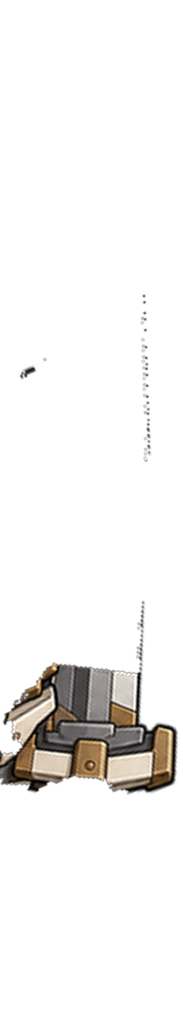
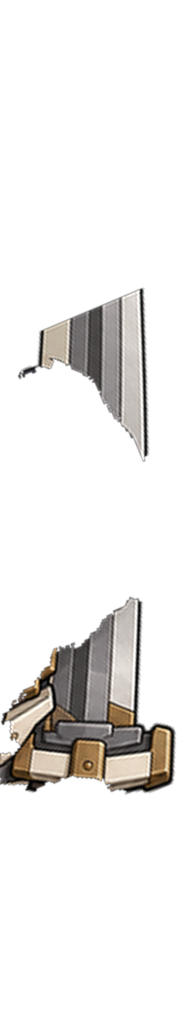
29 스카이 팔로메 v1.5: 공격 때 칼 깨짐 — 칼날 한 덩어리 + 시트 날밑 덮기
- 원화 머리 오른쪽 칼날이 왼쪽보다 6.5~11px 아래로 어긋나 그려져 있어, 세 조각(이어 붙인 단면·원화 조각·시트 칼 뿌리)이 만나 휘두를 때 계단·금
- 칼날 = 머리 왼쪽 단면 하나를 날밑까지 이은 한 덩어리, 윗날만 머리 뒤에서 완만히(최대 4°) 휘어 날밑 쪽 원화 윗날 안쪽으로
- 시트 날밑을 자기 알파로 칼날 위에 덮고 둘레 고리 원화 부스러기 지움
- 대기 = 원화(guardArt), 차이 2.42 · 편집 툴 v127 · 게임 미연결(DHL 확인 뒤)

Claude-Session: https://claude.ai/code/session_011WxNHak8EsK79yqEoeePC7

Changed region(s): [[0.0, 0.5786, 0.8791, 0.7917], [0.1099, 0.2741, 0.8242, 0.4568], [0.9066, 0.7004, 0.989, 0.7917]]

diff --git a/assets/rig/palome-sky/rig.def.js b/assets/rig/palome-sky/rig.def.js
@@ -1,3 +1,3 @@
 // 자동 생성: rig.json을 JS로 감싼 것. 원본은 같은 폴더의 rig.json (source/build_sky29.py)
 window.MR_RIG_DEFS=window.MR_RIG_DEFS||{};
-window.MR_RIG_DEFS['palome-sky']={"name": "palome-sky", "version": "7a6a50bd", "units": "rig px (원화 512 ×2)", "refOrigin": [526.0, 956.0], "refScale": 1.0, "refLift": 0, "parts": {"torso": {"src": "parts/torso.png", "pivot": [140.0, 239.0], "scale": 2.0}, "skirt": {"src": "parts/skirt.png", "pivot": [140.0, 41.0], "scale": 2.0, "mesh": {"cols": 8, "rows": 6}}, "head": {"src": "parts/head.png", "pivot": [102.0, 138.0], "scale": 2.0}, "pauldron": {"src": "parts/pauldron.png", "pivot": [93.0, 89.0], "scale": 2.0}, "armU": {"src": "parts/armU.png", "pivot": [82.0, 19.0], "scale": 2.0, "elbow": [20.0, 80.0]}, "armL": {"src": "parts/armL.png", "pivot": [19.0, 27.0], "scale": 2.0, "fist": [105.4, 61.8]}, "armF": {"src": "parts/armF.png", "pivot": [28.0, 32.0], "scale": 2.0, "elbow": [90.0, 82.0]}, "foreF": {"src": "parts/foreF.png", "pivot": [50.0, 78.0], "scale": 2.0}, "fistF": {"src": "parts/fistF.png", "pivot": [36.0, 61.0], "scale": 2.0}, "pauldronF": {"src": "parts/pauldronF.png", "pivot": [10.0, 27.0], "scale": 2.0}, "seamF": {"src": "parts/seamF.png", "pivot": [-65.0, 167.0], "scale": 2.0}, "cape": {"src": "parts/cape.png", "pivot": [87.0, 27.0], "scale": 2.0, "mesh": {"cols": 6, "rows": 7}}, "guardArt": {"src": "parts/guardArt.png", "pivot": [80.0, 847.0], "scale": 1.0}, "weapon": {"src": "parts/weapon.png", "pivot": [80.0, 847.0], "scale": 1.0, "tip": [90.9, 4.6], "tips": [[78.9, 24.6], [118.9, 24.6]], "guard": [90.6, 755.7], "pommel": [62.4, 997.7]}, "face_happy": {"src": "parts/face_happy.png", "pivot": [102.0, 138.0], "scale": 2.0}, "face_angry": {"src": "parts/face_angry.png", "pivot": [102.0, 138.0], "scale": 2.0}, "face_focus": {"src": "parts/face_focus.png", "pivot": [102.0, 138.0], "scale": 2.0}, "face_shout": {"src": "parts/face_shout.png", "pivot": [102.0, 138.0], "scale": 2.0}, "face_effort": {"src": "parts/face_effort.png", "pivot": [102.0, 138.0], "scale": 2.0}, "face_half": {"src": "parts/face_half.png", "pivot": [102.0, 138.0], "scale": 2.0}, "face_closed": {"src": "parts/face_closed.png", "pivot": [102.0, 138.0], "scale": 2.0}, "bootStandN": {"src": "parts/bootStandN.png", "pivot": [27.0, 25.0], "scale": 2.0}, "bootStandF": {"src": "parts/bootStandF.png", "pivot": [35.0, 23.0], "scale": 2.0}, "bootNRun": {"src": "parts/bootNRun.png", "pivot": [28.6, 41.0], "scale": 2.0}, "bootFRun": {"src": "parts/bootFRun.png", "pivot": [28.6, 42.0], "scale": 2.0}, "shinP": {"src": "parts/shinP.png", "pivot": [0, 0], "scale": 1}, "gF": {"src": "parts/fistF.png", "pivot": [36.0, 61.0], "grip": [38.0, 34.6], "elbow": [36.0, 61.0], "wrist": [36.0, 61.0], "scale": 2.0, "shaftDir": [-0.9215, -0.3885], "fore": "foreFa", "foreBone": "foreFb", "foreDir": [0.2075, 0.9782]}, "foreFa": {"src": "parts/foreF.png", "pivot": [36.0, 12.0], "elbow": [50.0, 78.0], "scale": 2.0}}, "bones": [{"name": "root", "parent": null, "pos": [0, 0]}, {"name": "hip", "parent": "root", "pos": [10.0, -172.0]}, {"name": "skirt", "parent": "hip", "pos": [0.0, 0.0], "part": "skirt"}, {"name": "torso", "parent": "hip", "pos": [0.0, 0.0], "part": "torso"}, {"name": "head", "parent": "torso", "pos": [28.0, -288.0], "part": "head"}, {"name": "armF", "parent": "torso", "pos": [188.0, -260.0], "part": "armF"}, {"name": "foreF", "parent": "armF", "pos": [124.0, 100.0], "part": "foreF"}, {"name": "fistF", "parent": "foreF", "pos": [-28.0, -132.0], "part": "fistF"}, {"name": "weapon", "parent": "fistF", "pos": [4.0, -52.7], "rot": -1.1718, "part": "weapon"}, {"name": "armU", "parent": "torso", "pos": [-216.0, -294.0], "part": "armU"}, {"name": "armL", "parent": "armU", "pos": [-124.0, 122.0], "rot": 0.3, "part": "armL"}, {"name": "pauldron", "parent": "torso", "pos": [-216.0, -294.0], "part": "pauldron"}, {"name": "cape", "parent": "torso", "pos": [-300.0, -184.0], "part": "cape"}, {"name": "scarf", "parent": "torso", "pos": [28.0, -288.0]}, {"name": "pouch", "parent": "hip", "pos": [0.0, 0.0]}, {"name": "pauldronF", "parent": "torso", "pos": [188.0, -260.0], "part": "pauldronF"}, {"name": "foreFb", "parent": "torso", "pos": [284.0, -292.0]}, {"name": "seamF", "parent": "torso", "pos": [0.0, 0.0], "part": "seamF"}, {"name": "guardArt", "parent": "weapon", "pos": [0.0, 0.0], "part": "guardArt"}], "legs": {"hip": [0, 76.0], "thigh": 30.1, "shin": 30.1, "thighImg": {"part": "shinP", "a": [22, 0], "b": [22, 46], "w": 0.001}, "shinImg": {"part": "shinP", "a": [22, 0], "b": [22, 46], "w": 0.001}, "boot": {"part": "bootFRun", "sole": [[-26.6, 16.0], [-9.6, 17.0], [9.4, 19.0], [28.4, 20.0], [45.4, 17.0]], "ankleRange": [-1.7, 1.7]}, "tube": {"part": "shinP", "a": [22, 0], "b": [22, 46], "k": 1.8, "runBoot": true}, "near": {"x": -172.0, "shade": 0, "thighImg": {"part": "shinP", "a": [22, 0], "b": [22, 46], "w": 0.001}, "shinImg": {"part": "shinP", "a": [22, 0], "b": [22, 46], "w": 0.001}, "runBoot": "bootNRun", "stand": {"fade": [0.12, 0.4], "boot": {"part": "bootStandN", "sole": [[-24.0, 15.0], [-11.0, 19.0], [2.0, 20.0], [32.0, 17.0], [45.0, -10.0]]}}}, "far": {"x": 124.0, "shade": 0, "thighImg": {"part": "shinP", "a": [22, 0], "b": [22, 46], "w": 0.001}, "shinImg": {"part": "shinP", "a": [22, 0], "b": [22, 46], "w": 0.001}, "runBoot": "bootFRun", "stand": {"fade": [0.12, 0.4], "boot": {"part": "bootStandF", "sole": [[-31.0, -11.0], [-16.0, 17.0], [18.0, 20.0], [34.0, 19.0], [49.0, 17.0]]}}}}, "draw": ["cape", "legFar", "legNear", "torso", "skirt", "armF", "pauldronF", "foreF", "weapon", "guardArt", "seamF", "armU", "pauldron", "head", "fistF", "armL"], "hidden": [], "faces": {"happy": "face_happy", "angry": "face_angry", "focus": "face_focus", "shout": "face_shout", "effort": "face_effort"}, "blinkFaces": {"half": "face_half", "closed": "face_closed"}, "idleStance": {"near": -12.0, "far": 2.0}, "gait": {"stance": 0.18, "strideBase": 14, "strideK": 0.06, "hipBase": 0, "bob": 6, "lean": 0.06, "waddle": 0.02, "headBob": 3, "kneeLift": 0.2, "heelKick": 0.03, "dropCap": 12, "swingReach": 0.05, "landAng": -0.04, "angK": 0.2, "elbowRun": 0.3, "foreRun": 0.3, "armSwing": 0.08, "armBias": 0.0, "headRun": 0.06}, "hemRun": {"lift": 8, "knee": 0.5, "heel": 0.3, "reach": 0.2}, "hemLimit": {"up": 0.25, "x": 0.3}, "hemGain": 0.15, "footReach": 0.97, "follow": [{"bone": "pauldron", "src": "armU", "k": 0.3}], "skirtFollow": 0.7, "carrySwing": 0.15, "wristRange": 0.2, "dropLift": 10, "bounce": [], "metrics": {"bodyHeight": 734, "note": "rig units; 머리카락 위(y111)~발바닥(478) ×2, 칼 제외"}, "ui": {"attack": "smash", "touch": "hop"}, "gameRef": {"refOrigin": [246.5, 478.0], "refScale": 2.0, "refLift": 0, "note": "게임 그림 char_0029.png(512) = 원화(md5 같음). x = 도감 칸(fitArt 중심 251.5, index.html measureBox 와 같은 계산)에서 골반(hip x 268)이 가운데 (9 팔로메와 같은 규칙)"}, "note": "29 스카이아크 팔로메 v1(대기·달리기·한 손 내려찍기). 9 러스트 팔로메 v1.1 구조(드워프 몸, 먼 팔이 칼을 어깨에 멤, 칼날 머리 뒤) + 망토. 조각 = 원화를 부품별로 나눔(seg29.py) + 가려진 곳만 시트·inpaint 로 메움", "swordGrip": {"tipDepth": 6, "near": {"upper": "armF", "carry": "gF", "pieces": []}, "far": {"upper": "armU", "pieces": ["armL"], "sPref": 0}, "stretchMax": 1.05, "shoulderPush": 0}, "drawA": ["cape", "legFar", "legNear", "armF", "torso", "skirt", "pauldronF", "foreFb", "weapon", "armU", "pauldron", "head", "foreF", "armL"], "drawA0": ["cape", "legFar", "legNear", "armF", "torso", "skirt", "pauldronF", "foreFb", "weapon", "guardArt", "seamF", "armU", "pauldron", "head", "foreF", "armL"], "drawStrike": ["cape", "legFar", "legNear", "armF", "torso", "skirt", "pauldronF", "foreFb", "armU", "pauldron", "head", "weapon", "foreF", "armL"], "actions": {"smash": {"kind": "sword", "rigid": true, "orderAlways": true, "dur": 0.9, "hitAt": 0.45, "hitStop": 0.07, "cancelAt": 0.66, "w": [[0, 1]], "reach": [[0, 0]], "nPiece": [[0, "gF"]], "nUpper": [[0, "armF"]], "armIK": [[0, 1]], "ikSideK": {"N": [[0, 1]]}, "gx": [[0.0, 288.0, "io"], [0.12, 272.2, "io"], [0.28, 248.8, "io"], [0.33, 286.2, "lin"], [0.355, 347.0, "lin"], [0.37, 356.4, "lin"], [0.385, 379.8, "lin"], [0.4, 389.2, "lin"], [0.415, 410.0, "lin"], [0.43, 380.0, "lin"], [0.45, 350.2, "io"], [0.6, 369.6, "io"], [0.65, 410.0, "lin"], [0.7, 379.8, "lin"], [0.75, 347.0, "io"], [0.8, 286.2, "io"], [0.86, 288.0, "io"]], "gy": [[0.0, -344.8, "io"], [0.12, -415.4, "io"], [0.28, -500.8, "io"], [0.33, -290.8, "lin"], [0.355, -217.2, "lin"], [0.37, -174.4, "lin"], [0.385, -134.4, "lin"], [0.4, -92.2, "lin"], [0.415, -48.0, "lin"], [0.43, 8.0, "lin"], [0.45, 60.4, "io"], [0.6, 61.8, "io"], [0.65, -48.0, "lin"], [0.7, -134.4, "lin"], [0.75, -217.2, "io"], [0.8, -290.8, "io"], [0.86, -344.8, "io"]], "sa": [[0.0, -2.7426, "io"], [0.12, -2.8449, "io"], [0.28, -3.0892, "io"], [0.33, -2.5656, "lin"], [0.355, -2.0944, "lin"], [0.37, -1.8326, "lin"], [0.385, -1.5708, "lin"], [0.4, -1.309, "lin"], [0.415, -1.0472, "lin"], [0.43, -0.7854, "lin"], [0.45, 0.096, "io"], [0.6, 0.096, "io"], [0.65, -1.0472, "lin"], [0.7, -1.5708, "lin"], [0.75, -2.0944, "io"], [0.8, -2.5656, "io"], [0.86, -2.7426, "io"]], "lean": [[0.0, 0.0, "io"], [0.12, -0.0698, "io"], [0.28, -0.1571, "io"], [0.33, 0.1047, "lin"], [0.355, 0.1745, "lin"], [0.37, 0.2269, "lin"], [0.385, 0.2443, "lin"], [0.4, 0.2443, "lin"], [0.415, 0.2443, "lin"], [0.43, 0.2443, "lin"], [0.45, 0.2443, "io"], [0.6, 0.2269, "io"], [0.65, 0.2443, "lin"], [0.7, 0.2443, "lin"], [0.75, 0.1745, "io"], [0.8, 0.1047, "io"], [0.86, 0.0, "io"]], "hipY": [[0.0, 0.0, "io"], [0.12, 8.0, "io"], [0.28, 0.0, "io"], [0.33, 12.0, "lin"], [0.355, 18.0, "lin"], [0.37, 22.0, "lin"], [0.385, 24.0, "lin"], [0.4, 24.0, "lin"], [0.415, 24.0, "lin"], [0.43, 24.0, "lin"], [0.45, 24.0, "io"], [0.6, 22.0, "io"], [0.65, 24.0, "lin"], [0.7, 24.0, "lin"], [0.75, 18.0, "io"], [0.8, 12.0, "io"], [0.86, 0.0, "io"]], "head": [[0, 0], [0.28, -0.06, "io"], [0.45, 0.05, "io"], [0.6, 0.04, "io"], [0.86, 0]], "freeArm": true, "fuA": [[0, 0], [0.28, -0.12, "io"], [0.45, 0.3, "o"], [0.6, 0.26, "io"], [0.86, 0]], "flA": [[0, 0], [0.28, -0.08, "io"], [0.45, 0.18, "o"], [0.6, 0.15, "io"], [0.86, 0]], "face": [[0, "angry"], [0.12, "effort"], [0.4, "shout"], [0.62, "focus"], [0.82, null]], "order": [[0, "drawA0"], [0.04, "drawA"], [0.375, "drawStrike"], [0.72, "drawA"], [0.85, "drawA0"]]}}, "cutHold": 0.25};
+window.MR_RIG_DEFS['palome-sky']={"name": "palome-sky", "version": "a283bfd7", "units": "rig px (원화 512 ×2)", "refOrigin": [526.0, 956.0], "refScale": 1.0, "refLift": 0, "parts": {"torso": {"src": "parts/torso.png", "pivot": [140.0, 239.0], "scale": 2.0}, "skirt": {"src": "parts/skirt.png", "pivot": [140.0, 41.0], "scale": 2.0, "mesh": {"cols": 8, "rows": 6}}, "head": {"src": "parts/head.png", "pivot": [102.0, 138.0], "scale": 2.0}, "pauldron": {"src": "parts/pauldron.png", "pivot": [93.0, 89.0], "scale": 2.0}, "armU": {"src": "parts/armU.png", "pivot": [82.0, 19.0], "scale": 2.0, "elbow": [20.0, 80.0]}, "armL": {"src": "parts/armL.png", "pivot": [19.0, 27.0], "scale": 2.0, "fist": [105.4, 61.8]}, "armF": {"src": "parts/armF.png", "pivot": [28.0, 32.0], "scale": 2.0, "elbow": [90.0, 82.0]}, "foreF": {"src": "parts/foreF.png", "pivot": [50.0, 78.0], "scale": 2.0}, "fistF": {"src": "parts/fistF.png", "pivot": [36.0, 61.0], "scale": 2.0}, "pauldronF": {"src": "parts/pauldronF.png", "pivot": [10.0, 27.0], "scale": 2.0}, "seamF": {"src": "parts/seamF.png", "pivot": [-65.0, 167.0], "scale": 2.0}, "cape": {"src": "parts/cape.png", "pivot": [87.0, 27.0], "scale": 2.0, "mesh": {"cols": 6, "rows": 7}}, "guardArt": {"src": "parts/guardArt.png", "pivot": [78.0, 847.0], "scale": 1.0}, "weapon": {"src": "parts/weapon.png", "pivot": [78.0, 847.0], "scale": 1.0, "tip": [88.9, 4.6], "tips": [[76.9, 24.6], [116.9, 24.6]], "guard": [88.6, 755.7], "pommel": [60.4, 997.7]}, "face_happy": {"src": "parts/face_happy.png", "pivot": [102.0, 138.0], "scale": 2.0}, "face_angry": {"src": "parts/face_angry.png", "pivot": [102.0, 138.0], "scale": 2.0}, "face_focus": {"src": "parts/face_focus.png", "pivot": [102.0, 138.0], "scale": 2.0}, "face_shout": {"src": "parts/face_shout.png", "pivot": [102.0, 138.0], "scale": 2.0}, "face_effort": {"src": "parts/face_effort.png", "pivot": [102.0, 138.0], "scale": 2.0}, "face_half": {"src": "parts/face_half.png", "pivot": [102.0, 138.0], "scale": 2.0}, "face_closed": {"src": "parts/face_closed.png", "pivot": [102.0, 138.0], "scale": 2.0}, "bootStandN": {"src": "parts/bootStandN.png", "pivot": [27.0, 25.0], "scale": 2.0}, "bootStandF": {"src": "parts/bootStandF.png", "pivot": [35.0, 23.0], "scale": 2.0}, "bootNRun": {"src": "parts/bootNRun.png", "pivot": [28.6, 41.0], "scale": 2.0}, "bootFRun": {"src": "parts/bootFRun.png", "pivot": [28.6, 42.0], "scale": 2.0}, "shinP": {"src": "parts/shinP.png", "pivot": [0, 0], "scale": 1}, "gF": {"src": "parts/fistF.png", "pivot": [36.0, 61.0], "grip": [38.0, 34.6], "elbow": [36.0, 61.0], "wrist": [36.0, 61.0], "scale": 2.0, "shaftDir": [-0.9215, -0.3885], "fore": "foreFa", "foreBone": "foreFb", "foreDir": [0.2075, 0.9782]}, "foreFa": {"src": "parts/foreF.png", "pivot": [36.0, 12.0], "elbow": [50.0, 78.0], "scale": 2.0}}, "bones": [{"name": "root", "parent": null, "pos": [0, 0]}, {"name": "hip", "parent": "root", "pos": [10.0, -172.0]}, {"name": "skirt", "parent": "hip", "pos": [0.0, 0.0], "part": "skirt"}, {"name": "torso", "parent": "hip", "pos": [0.0, 0.0], "part": "torso"}, {"name": "head", "parent": "torso", "pos": [28.0, -288.0], "part": "head"}, {"name": "armF", "parent": "torso", "pos": [188.0, -260.0], "part": "armF"}, {"name": "foreF", "parent": "armF", "pos": [124.0, 100.0], "part": "foreF"}, {"name": "fistF", "parent": "foreF", "pos": [-28.0, -132.0], "part": "fistF"}, {"name": "weapon", "parent": "fistF", "pos": [4.0, -52.7], "rot": -1.1718, "part": "weapon"}, {"name": "armU", "parent": "torso", "pos": [-216.0, -294.0], "part": "armU"}, {"name": "armL", "parent": "armU", "pos": [-124.0, 122.0], "rot": 0.3, "part": "armL"}, {"name": "pauldron", "parent": "torso", "pos": [-216.0, -294.0], "part": "pauldron"}, {"name": "cape", "parent": "torso", "pos": [-300.0, -184.0], "part": "cape"}, {"name": "scarf", "parent": "torso", "pos": [28.0, -288.0]}, {"name": "pouch", "parent": "hip", "pos": [0.0, 0.0]}, {"name": "pauldronF", "parent": "torso", "pos": [188.0, -260.0], "part": "pauldronF"}, {"name": "foreFb", "parent": "torso", "pos": [284.0, -292.0]}, {"name": "seamF", "parent": "torso", "pos": [0.0, 0.0], "part": "seamF"}, {"name": "guardArt", "parent": "weapon", "pos": [0.0, 0.0], "part": "guardArt"}], "legs": {"hip": [0, 76.0], "thigh": 30.1, "shin": 30.1, "thighImg": {"part": "shinP", "a": [22, 0], "b": [22, 46], "w": 0.001}, "shinImg": {"part": "shinP", "a": [22, 0], "b": [22, 46], "w": 0.001}, "boot": {"part": "bootFRun", "sole": [[-26.6, 16.0], [-9.6, 17.0], [9.4, 19.0], [28.4, 20.0], [45.4, 17.0]], "ankleRange": [-1.7, 1.7]}, "tube": {"part": "shinP", "a": [22, 0], "b": [22, 46], "k": 1.8, "runBoot": true}, "near": {"x": -172.0, "shade": 0, "thighImg": {"part": "shinP", "a": [22, 0], "b": [22, 46], "w": 0.001}, "shinImg": {"part": "shinP", "a": [22, 0], "b": [22, 46], "w": 0.001}, "runBoot": "bootNRun", "stand": {"fade": [0.12, 0.4], "boot": {"part": "bootStandN", "sole": [[-24.0, 15.0], [-11.0, 19.0], [2.0, 20.0], [32.0, 17.0], [45.0, -10.0]]}}}, "far": {"x": 124.0, "shade": 0, "thighImg": {"part": "shinP", "a": [22, 0], "b": [22, 46], "w": 0.001}, "shinImg": {"part": "shinP", "a": [22, 0], "b": [22, 46], "w": 0.001}, "runBoot": "bootFRun", "stand": {"fade": [0.12, 0.4], "boot": {"part": "bootStandF", "sole": [[-31.0, -11.0], [-16.0, 17.0], [18.0, 20.0], [34.0, 19.0], [49.0, 17.0]]}}}}, "draw": ["cape", "legFar", "legNear", "torso", "skirt", "armF", "pauldronF", "foreF", "weapon", "guardArt", "seamF", "armU", "pauldron", "head", "fistF", "armL"], "hidden": [], "faces": {"happy": "face_happy", "angry": "face_angry", "focus": "face_focus", "shout": "face_shout", "effort": "face_effort"}, "blinkFaces": {"half": "face_half", "closed": "face_closed"}, "idleStance": {"near": -12.0, "far": 2.0}, "gait": {"stance": 0.18, "strideBase": 14, "strideK": 0.06, "hipBase": 0, "bob": 6, "lean": 0.06, "waddle": 0.02, "headBob": 3, "kneeLift": 0.2, "heelKick": 0.03, "dropCap": 12, "swingReach": 0.05, "landAng": -0.04, "angK": 0.2, "elbowRun": 0.3, "foreRun": 0.3, "armSwing": 0.08, "armBias": 0.0, "headRun": 0.06}, "hemRun": {"lift": 8, "knee": 0.5, "heel": 0.3, "reach": 0.2}, "hemLimit": {"up": 0.25, "x": 0.3}, "hemGain": 0.15, "footReach": 0.97, "follow": [{"bone": "pauldron", "src": "armU", "k": 0.3}], "skirtFollow": 0.7, "carrySwing": 0.15, "wristRange": 0.2, "dropLift": 10, "bounce": [], "metrics": {"bodyHeight": 734, "note": "rig units; 머리카락 위(y111)~발바닥(478) ×2, 칼 제외"}, "ui": {"attack": "smash", "touch": "hop"}, "gameRef": {"refOrigin": [246.5, 478.0], "refScale": 2.0, "refLift": 0, "note": "게임 그림 char_0029.png(512) = 원화(md5 같음). x = 도감 칸(fitArt 중심 251.5, index.html measureBox 와 같은 계산)에서 골반(hip x 268)이 가운데 (9 팔로메와 같은 규칙)"}, "note": "29 스카이아크 팔로메 v1(대기·달리기·한 손 내려찍기). 9 러스트 팔로메 v1.1 구조(드워프 몸, 먼 팔이 칼을 어깨에 멤, 칼날 머리 뒤) + 망토. 조각 = 원화를 부품별로 나눔(seg29.py) + 가려진 곳만 시트·inpaint 로 메움", "swordGrip": {"tipDepth": 6, "near": {"upper": "armF", "carry": "gF", "pieces": []}, "far": {"upper": "armU", "pieces": ["armL"], "sPref": 0}, "stretchMax": 1.05, "shoulderPush": 0}, "drawA": ["cape", "legFar", "legNear", "armF", "torso", "skirt", "pauldronF", "foreFb", "weapon", "armU", "pauldron", "head", "foreF", "armL"], "drawA0": ["cape", "legFar", "legNear", "armF", "torso", "skirt", "pauldronF", "foreFb", "weapon", "guardArt", "seamF", "armU", "pauldron", "head", "foreF", "armL"], "drawStrike": ["cape", "legFar", "legNear", "armF", "torso", "skirt", "pauldronF", "foreFb", "armU", "pauldron", "head", "weapon", "foreF", "armL"], "actions": {"smash": {"kind": "sword", "rigid": true, "orderAlways": true, "dur": 0.9, "hitAt": 0.45, "hitStop": 0.07, "cancelAt": 0.66, "w": [[0, 1]], "reach": [[0, 0]], "nPiece": [[0, "gF"]], "nUpper": [[0, "armF"]], "armIK": [[0, 1]], "ikSideK": {"N": [[0, 1]]}, "gx": [[0.0, 288.0, "io"], [0.12, 272.2, "io"], [0.28, 248.8, "io"], [0.33, 286.2, "lin"], [0.355, 347.0, "lin"], [0.37, 356.4, "lin"], [0.385, 379.8, "lin"], [0.4, 389.2, "lin"], [0.415, 410.0, "lin"], [0.43, 380.0, "lin"], [0.45, 350.2, "io"], [0.6, 369.6, "io"], [0.65, 410.0, "lin"], [0.7, 379.8, "lin"], [0.75, 347.0, "io"], [0.8, 286.2, "io"], [0.86, 288.0, "io"]], "gy": [[0.0, -344.8, "io"], [0.12, -415.4, "io"], [0.28, -500.8, "io"], [0.33, -290.8, "lin"], [0.355, -217.2, "lin"], [0.37, -174.4, "lin"], [0.385, -134.4, "lin"], [0.4, -92.2, "lin"], [0.415, -48.0, "lin"], [0.43, 8.0, "lin"], [0.45, 60.4, "io"], [0.6, 61.8, "io"], [0.65, -48.0, "lin"], [0.7, -134.4, "lin"], [0.75, -217.2, "io"], [0.8, -290.8, "io"], [0.86, -344.8, "io"]], "sa": [[0.0, -2.7426, "io"], [0.12, -2.8449, "io"], [0.28, -3.0892, "io"], [0.33, -2.5656, "lin"], [0.355, -2.0944, "lin"], [0.37, -1.8326, "lin"], [0.385, -1.5708, "lin"], [0.4, -1.309, "lin"], [0.415, -1.0472, "lin"], [0.43, -0.7854, "lin"], [0.45, 0.096, "io"], [0.6, 0.096, "io"], [0.65, -1.0472, "lin"], [0.7, -1.5708, "lin"], [0.75, -2.0944, "io"], [0.8, -2.5656, "io"], [0.86, -2.7426, "io"]], "lean": [[0.0, 0.0, "io"], [0.12, -0.0698, "io"], [0.28, -0.1571, "io"], [0.33, 0.1047, "lin"], [0.355, 0.1745, "lin"], [0.37, 0.2269, "lin"], [0.385, 0.2443, "lin"], [0.4, 0.2443, "lin"], [0.415, 0.2443, "lin"], [0.43, 0.2443, "lin"], [0.45, 0.2443, "io"], [0.6, 0.2269, "io"], [0.65, 0.2443, "lin"], [0.7, 0.2443, "lin"], [0.75, 0.1745, "io"], [0.8, 0.1047, "io"], [0.86, 0.0, "io"]], "hipY": [[0.0, 0.0, "io"], [0.12, 8.0, "io"], [0.28, 0.0, "io"], [0.33, 12.0, "lin"], [0.355, 18.0, "lin"], [0.37, 22.0, "lin"], [0.385, 24.0, "lin"], [0.4, 24.0, "lin"], [0.415, 24.0, "lin"], [0.43, 24.0, "lin"], [0.45, 24.0, "io"], [0.6, 22.0, "io"], [0.65, 24.0, "lin"], [0.7, 24.0, "lin"], [0.75, 18.0, "io"], [0.8, 12.0, "io"], [0.86, 0.0, "io"]], "head": [[0, 0], [0.28, -0.06, "io"], [0.45, 0.05, "io"], [0.6, 0.04, "io"], [0.86, 0]], "freeArm": true, "fuA": [[0, 0], [0.28, -0.12, "io"], [0.45, 0.3, "o"], [0.6, 0.26, "io"], [0.86, 0]], "flA": [[0, 0], [0.28, -0.08, "io"], [0.45, 0.18, "o"], [0.6, 0.15, "io"], [0.86, 0]], "face": [[0, "angry"], [0.12, "effort"], [0.4, "shout"], [0.62, "focus"], [0.82, null]], "order": [[0, "drawA0"], [0.04, "drawA"], [0.375, "drawStrike"], [0.72, "drawA"], [0.85, "drawA0"]]}}, "cutHold": 0.25};

diff --git a/assets/rig/palome-sky/source/build_sky29.py b/assets/rig/palome-sky/source/build_sky29.py
@@ -167,7 +167,7 @@ _gsil = cv2.dilate((gd3[..., 3] > 100).astype(np.uint8), cv2.getStructuringEleme
 sw[(XX >= 170) & (XX <= 372) & ((v < -0.08) | (v > 1.08)) & ~_gsil] = 0   # 날 띠 밖 조각(머리카락 외곽선·어깨 판 크림 조각)은 칼에서 뺌 — 날밑 둘레까지
 hid = (XX >= 170) & (XX <= 372) & (v > -0.1) & (v < 1.1) & (sw[..., 3] < 250) & (RA[..., 3] > 40) & ~lab('handF') & ~lab('foreF')   # 띠 안 빈 곳은 라벨과 상관없이(머리카락 사이 틈까지) 메움 — 대기엔 머리가 덮음
 # 띠 좌표 v 는 그대로, 날 길이 방향으로는 머리카락 왼쪽(x 168~174)의 단면 평균을 늘려 씀 → 홈·가장자리가 곧게 이어짐(왼쪽 D px 복사는 날이 좁아지며 홈이 계단처럼 어긋났음)
-cols = []
+cols = []; swc = sw.copy()   # 단면 뽑을 원본(아래 칼날 다시 그릴 때도 같은 단면)
 for xr in range(168, 175):
     ys_r = yT(xr) + v * (yB(xr) - yT(xr)); cols.append(cv2.remap(sw.astype(np.float32), np.full_like(ys_r, xr, np.float32), ys_r.astype(np.float32), cv2.INTER_LINEAR, borderValue=(0, 0, 0, 0)))
 src = np.mean(cols, 0); put = hid & (src[..., 3] > 200); sw[put] = np.clip(src[put], 0, 255).astype(np.uint8); hid &= ~put
@@ -182,11 +182,29 @@ _gcut = _near & ~_gsil & ~_band & ~_hband & ~poly_(PO_['pommel']) & (sw[..., 3] 
 # seamF: 원화의 날밑·어깨 경계 픽셀(위에서 바꾸거나 뺀 곳) — 서 있을 때·달릴 때만 칼 위에 그려 대기 = 원화, 공격(칼이 움직임) 땐 안 그림
 _sm = (SEAM | _gcut) & (RA[..., 3] > 40); o_seam = save('seamF', art(_sm)); print('  seamF', int(_sm.sum()), 'px')
 _gfill = (gd3[..., 3] > 200) & (_gsil & ~_band | (sw[..., 3] < 200)) & (cv2.dilate((RA[..., 3] > 40).astype(np.uint8), np.ones((3, 3), np.uint8)) > 0); sw[_gfill] = gd3[_gfill]   # 날밑 = 시트 날밑 통째(움직일 때 깨끗) — 서 있을 땐 guardArt(원화)가 위에
-# 날밑 바로 앞 칼날 뿌리(금·크림 장식): 원화는 어깨 판에 반쯤 가려 들쭉날쭉 → 시트 칼(22번, SIFT)의 같은 곳으로 (서 있을 땐 guardArt 가 원화)
-swS = cv2.warpAffine(desp(np.array(Image.open(os.path.join(PC, 'sword.png')).convert('RGBA'))), np.array(GEO['sword']['M'], np.float32), (512, 512), flags=cv2.INTER_LANCZOS4, borderValue=(0, 0, 0, 0))
-_root = (v > -0.15) & (v < 1.15) & (_al > -40) & (_al < 2) & ~_gsil
-sw[_root & (swS[..., 3] > 200)] = swS[_root & (swS[..., 3] > 200)]; sw[_root & (swS[..., 3] <= 100)] = 0
-print('  guard: cut', int(_gcut.sum()), 'filled', int(_gfill.sum()), 'root', int(_root.sum()))
+# 칼날(머리 오른쪽 ~ 날밑): 움직일 때 쓰는 칼 그림은 머리 왼쪽 깨끗한 단면(x168~174 평균)을 날 방향으로 그대로 이어 붙인 날 하나로 — 원화 조각(머리·날밑 사이)·시트 칼 뿌리를
+#   섞으면 홈 위치·폭이 달라 '깨진 칼'로 보였음(10-20 09:15 DHL). 서 있을 땐 guardArt 가 원화 칼날을 위에 그림 (칼 길이·폭 = 원화 그대로)
+# 원화 칼날은 머리 오른쪽 부분이 머리 왼쪽보다 6.5~11px 아래로 어긋나 그려져 있음(머리에 가려 안 보이던 이음매) → 움직일 땐 그 어긋남이 '깨진 칼'
+#   → 윗날 선을 머리 뒤(x170~260)에서 아주 완만히 휘어(최대 4°) 오른쪽 원화 윗날(x310~366)보다 살짝 안쪽으로 지나가게 → 날 하나로 매끈, 대기엔 원화(guardArt)가 덮음
+K_TOP, W_TOP = 0.0726, 90.0
+_off = np.where(XX < 170, 0.0, np.where(XX < 170 + W_TOP, K_TOP * (XX - 170.0) ** 2 / (2 * W_TOP), K_TOP * (XX - 170.0 - W_TOP / 2)))
+yT2 = yT(XX) + _off; v2 = (YY - yT2) / (yB(XX) - yT2)
+cols2 = []
+for xr in range(168, 175):
+    ys_r = yT(xr) + v2 * (yB(xr) - yT(xr)); cols2.append(cv2.remap(swc.astype(np.float32), np.full_like(ys_r, xr, np.float32), ys_r.astype(np.float32), cv2.INTER_LINEAR, borderValue=(0, 0, 0, 0)))
+src2 = np.mean(cols2, 0)
+_gcore = gd3[..., 3] > 200
+_root = (XX >= 170) & (_al < -1) & ~_gcore & (((v > -0.12) & (v < 1.12)) | ((v2 > -0.12) & (v2 < 1.12)))
+sw[_root] = 0; _rp = _root & (v2 > -0.12) & (v2 < 1.12) & (src2[..., 3] > 4); sw[_rp] = np.clip(src2[_rp], 0, 255).astype(np.uint8)
+# 날밑 마무리: 날밑 둘레 고리(_gsil 안, 날밑 본체 밖)에 남은 원화 조각(금색·크림 부스러기 — 휘두를 때 날밑 아래가 찢겨 보였음) 지우고
+#   시트 날밑을 자기 알파 그대로 칼날 위에 덮어 그림(날이 날밑 홈으로 들어가는 모양) — 원화 실루엣 밖(배경) 날밑은 예전처럼 뺌
+_gring = _gsil & ~_gcore & ~_hband & ~poly_(PO_['pommel']) & ~_rp
+sw[_gring] = 0
+_ga = gd3[..., 3:4].astype(np.float32) / 255 * (cv2.dilate((RA[..., 3] > 40).astype(np.uint8), np.ones((3, 3), np.uint8)) > 0)[..., None]
+_sa = sw[..., 3:4].astype(np.float32) / 255; _oa = _ga + _sa * (1 - _ga)
+_rgb = (gd3[..., :3] * _ga + sw[..., :3] * _sa * (1 - _ga)) / np.maximum(_oa, 1e-6)
+_gc = _gsil & (gd3[..., 3] > 0); sw[_gc, :3] = np.clip(_rgb[_gc], 0, 255).astype(np.uint8); sw[_gc, 3] = np.clip(_oa[_gc, 0] * 255, 0, 255).astype(np.uint8)
+print('  guard: cut', int(_gcut.sum()), 'filled', int(_gfill.sum()), 'ring', int(_gring.sum()), 'blade', int(_root.sum()))
 o_sw_art = save('_sword_art', sw); os.remove(os.path.join(PARTS, '_sword_art.png'))
 ang_tip = math.atan2(UT[1], UT[0]); rot_deg = math.degrees(-math.pi / 2 - ang_tip)
 UPS = 2

diff --git a/assets/rig/palome-sky/STATUS.md b/assets/rig/palome-sky/STATUS.md
@@ -46,3 +46,10 @@
 - 공격 drawA·drawStrike 에서 armF 를 torso 앞 → 뒤로(어깨 판이 소매 위 끝을 덮음, 9 과 같음)
 - seg29: 가죽 끈 오른쪽(x376~400, y228~325) 몸 라벨 → 남색·외곽선 = 먼 윗팔, 크림·금·강철 = 먼 토시 (몸에 남아 팔이 떠난 뒤 남색 깃발처럼 보였음). 몸 오른쪽 위 남색 메움(fillO)은 시트 상체 윤곽 안만. pauldronF 에서 SEAM 픽셀 뺌
 - 대기 차이 2.41. 남은 것: 타격 때 어깨 오른쪽 아주 작은 금·외곽선 조각(약 10px), 게임 연결(DHL 확인 뒤)
+
+## 09:25 (10-20) v1.5 — DHL 09:15 '무빙은 너무 좋아요!! 단, 공격시 칼이 깨지고 있어요 ㅠ' (타격 0.48 날밑 옆 칼날에 동그라미) · 편집 툴 v127
+- 원인: 원화 칼날은 머리 오른쪽 부분(x310~366)이 머리 왼쪽 칼날 선(TOPL)보다 6.5~11px 아래로 어긋나 그려져 있음(서 있을 땐 머리카락에 가려 안 보이는 이음매). v1.3~1.4 칼 그림 = 머리 왼쪽 단면 이어 붙임 + 원화 조각 + 시트 칼 뿌리(22번) — 홈 위치·폭이 다른 세 조각이 만나 휘두를 때 계단·금. 원화 실루엣으로 자르면 윗날에 5px 계단 + 구멍
+- 칼날(x ≥ 170 ~ 날밑): 머리 왼쪽 깨끗한 단면(x168~174 평균, swc) 하나를 날밑까지 이어 붙인 한 덩어리. 윗날 선만 yT + 완만한 휨(K_TOP .0726, x170~260 2차 곡선 → 직선, 최대 4°) — x310~366 원화 윗날보다 0.4~1px 안쪽(대기에 칼이 원화 밖으로 안 나옴). 아랫날 = BOTL 그대로. 띠 좌표 v2 로 단면을 다시 뽑음(src2)
+- 날밑: _root 는 날밑 본체(gd3 α>200) 밖 전부 → 날이 날밑 밑까지 들어감. 날밑 둘레 고리(_gsil 안·본체 밖·손잡이 띠·폼멜 밖)에 남던 원화 금·크림 부스러기 지움(343px) → 시트 날밑을 자기 알파 그대로 칼 위에 덮어 그림(원화 실루엣 밖 = 배경은 예전처럼 뺌)
+- 대기 차이 2.42(배경 >40 554, 전 528) · guardArt 7493px 그대로. 공격 8·14·17·21·27·29 프레임 확인 — 칼 한 덩어리, 날밑 깨끗
+- 남은 것(DHL 요청 밖): 메기(0.13~0.28) 때 먼 어깨 판 오른쪽 작은 부스러기·끈 끝, 타격 때 어깨 오른쪽 약 10px 조각
